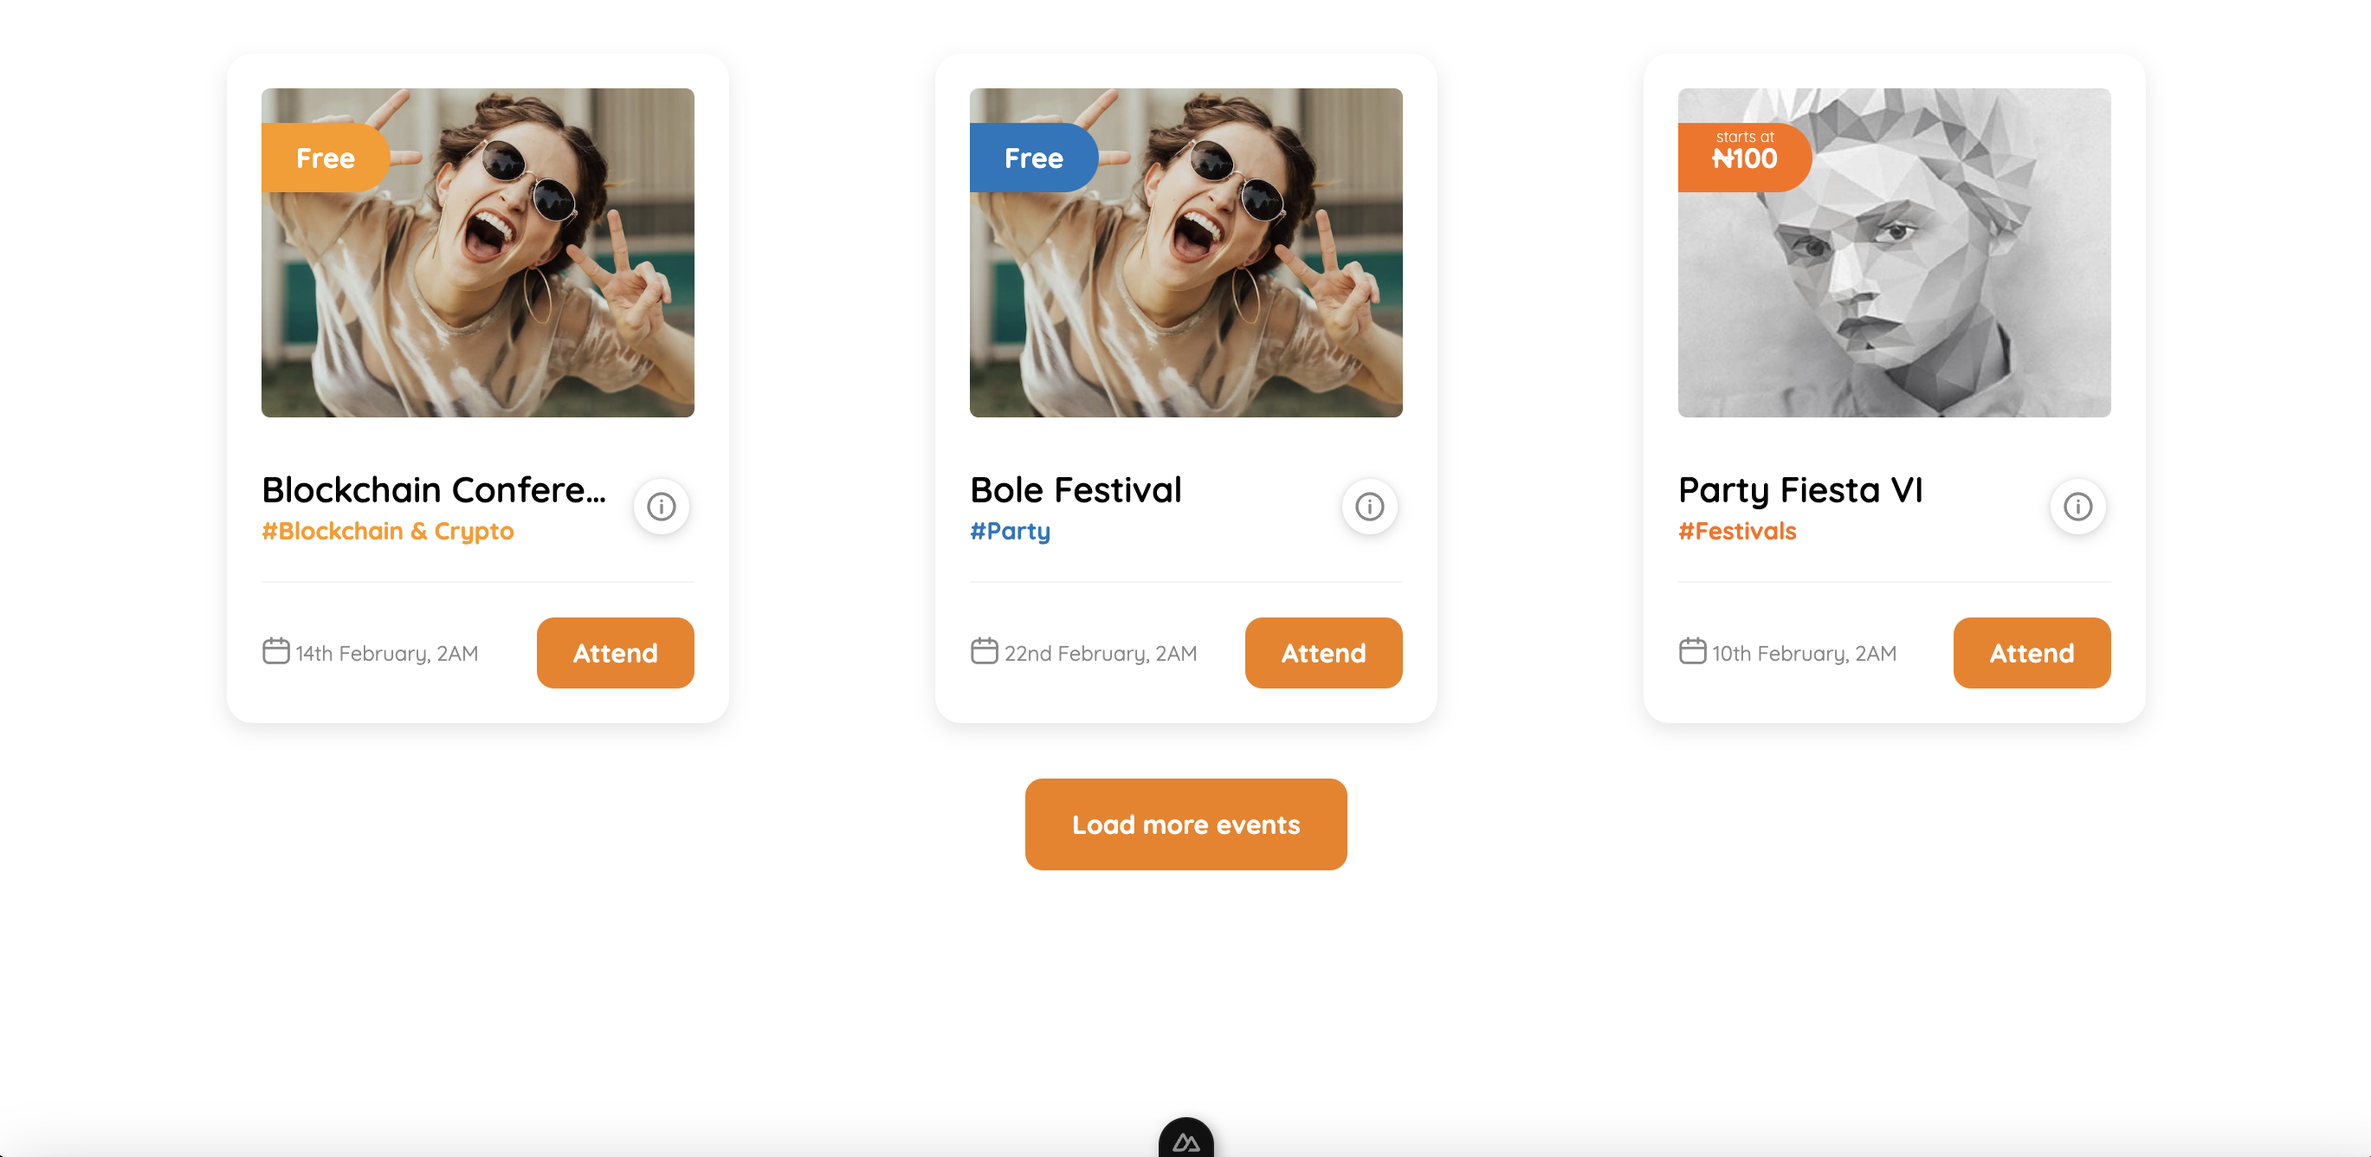
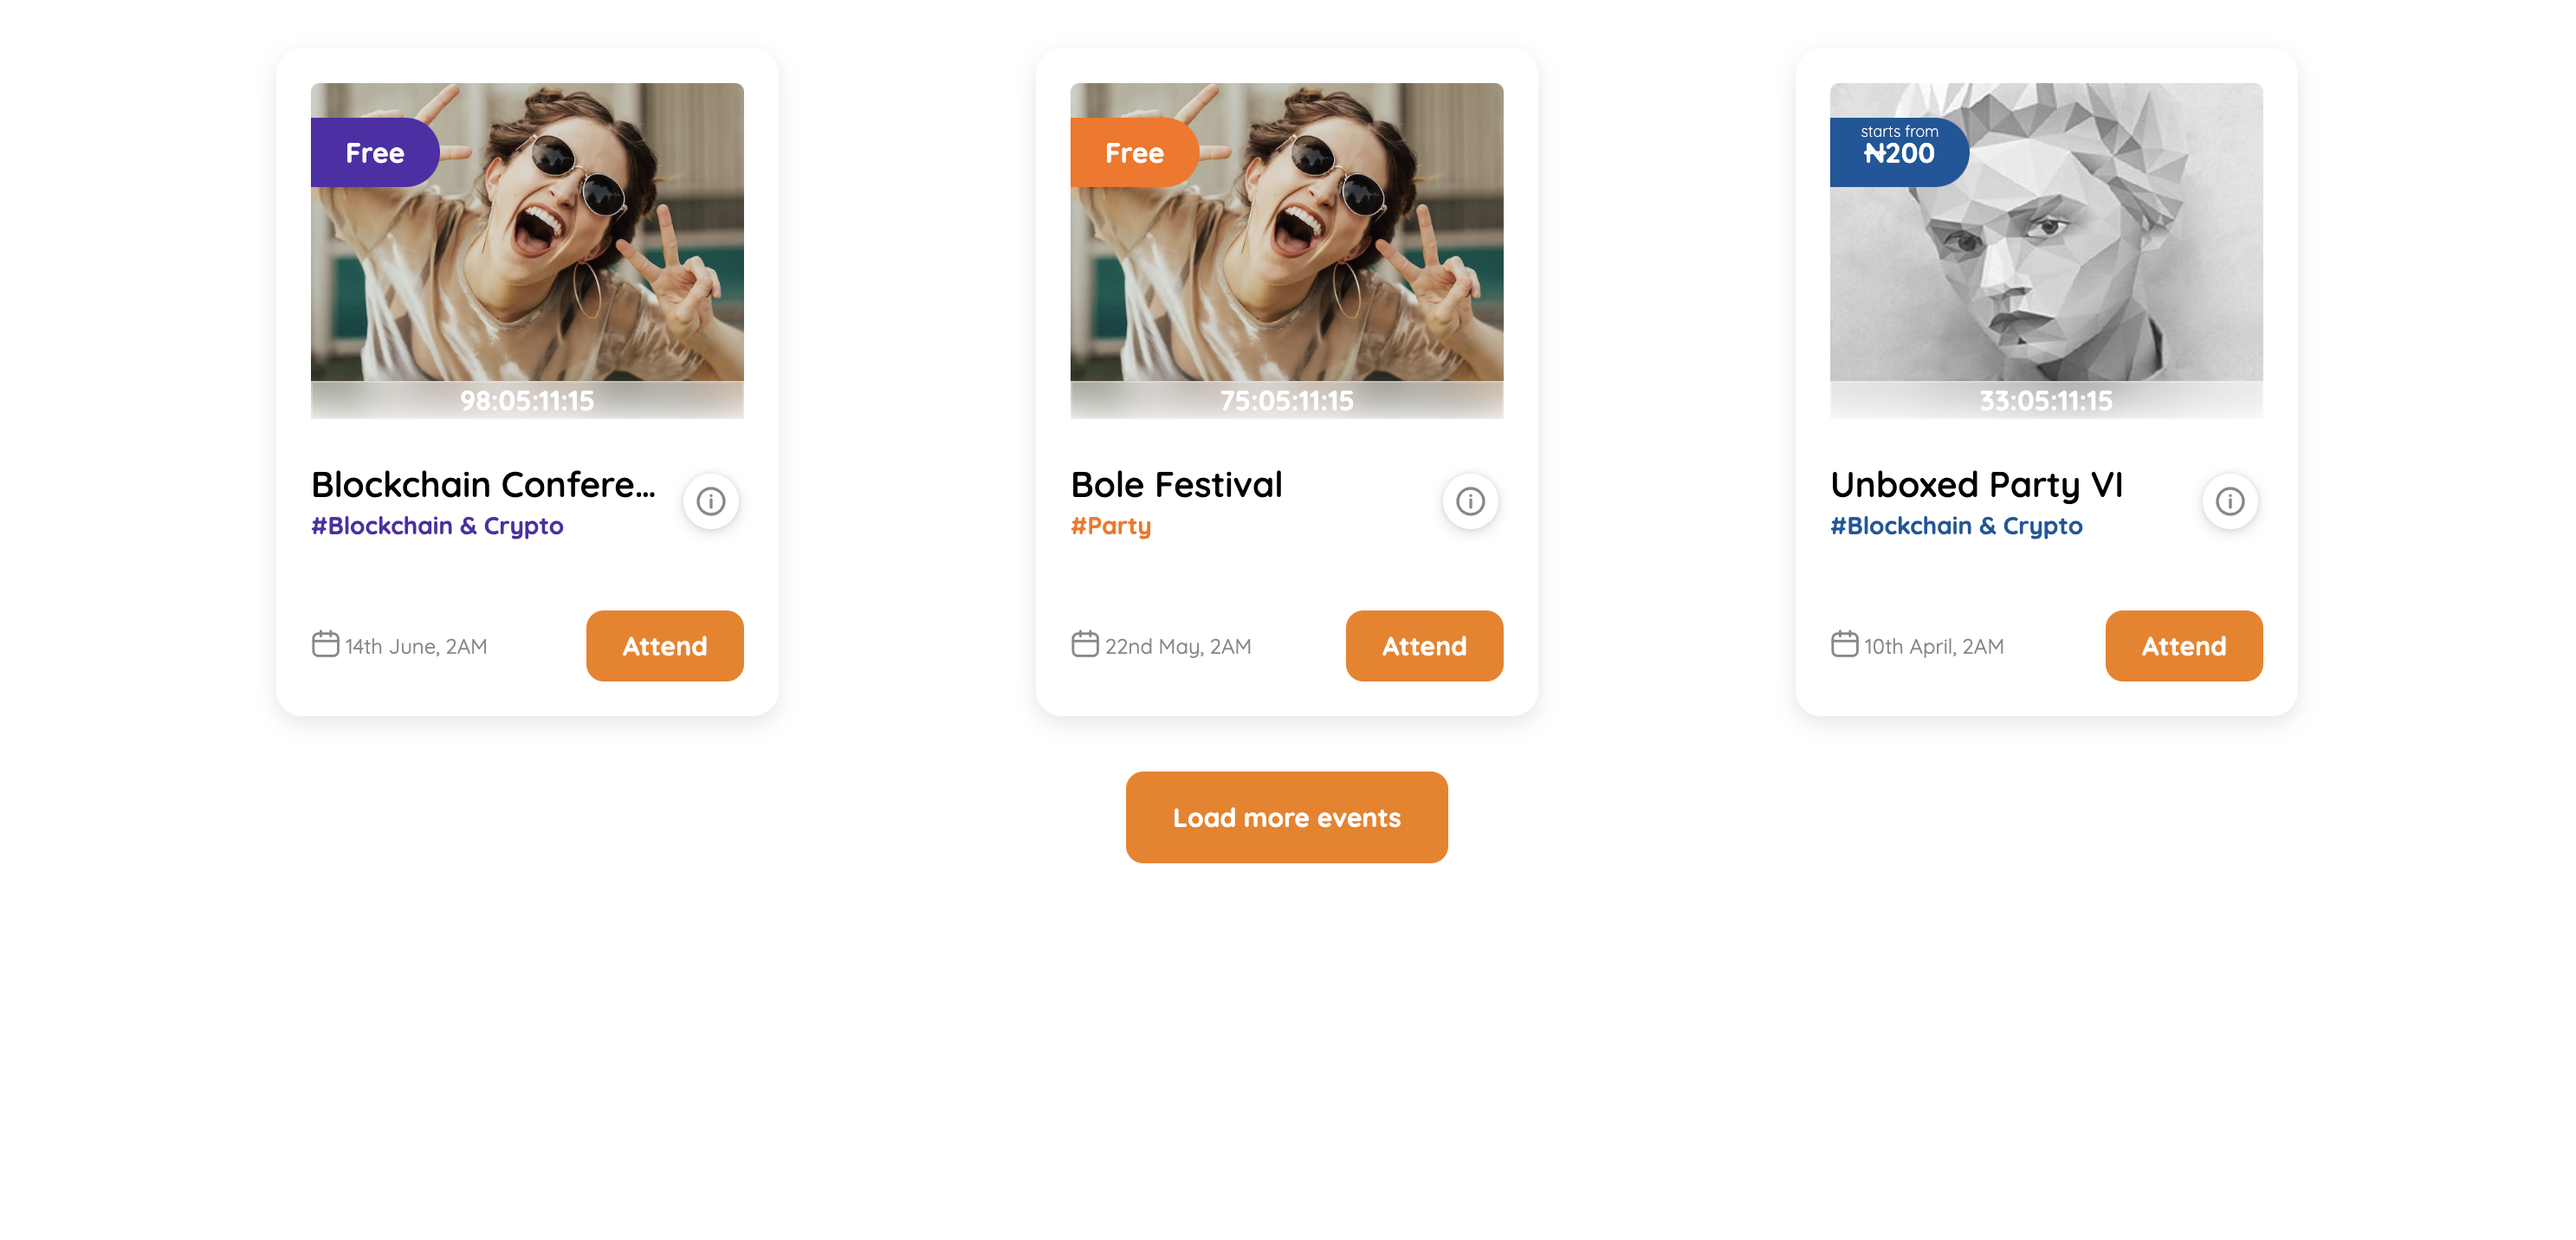
added customizable color scheme, and more preview

diff --git a/README.md b/README.md
@@ -81,9 +81,10 @@ Integrate the Yeerlo client library in your nuxt project to start displaying eve
 ## Previews
 
 <p align="center">
-  <img src="public/preview1.png" alt="Preview 1" width="30%" />
-  <img src="public/preview2.png" alt="Preview 2" width="30%" />
-  <img src="public/preview3.png" alt="Preview 3" width="30%" />
+  <img src="public/preview1.png" alt="Preview 1" width="25%" />
+  <img src="public/preview2.png" alt="Preview 2" width="25%" />
+  <img src="public/preview3.png" alt="Preview 3" width="25%" />
+  <img src="public/preview4.png" alt="Preview 3" width="25%" />
 </p>
 
 ## Features
